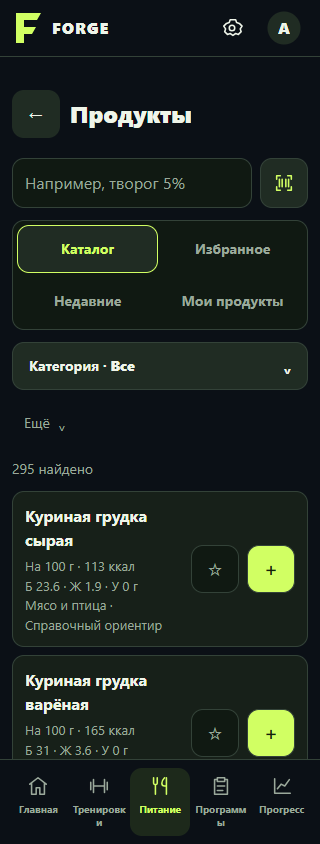
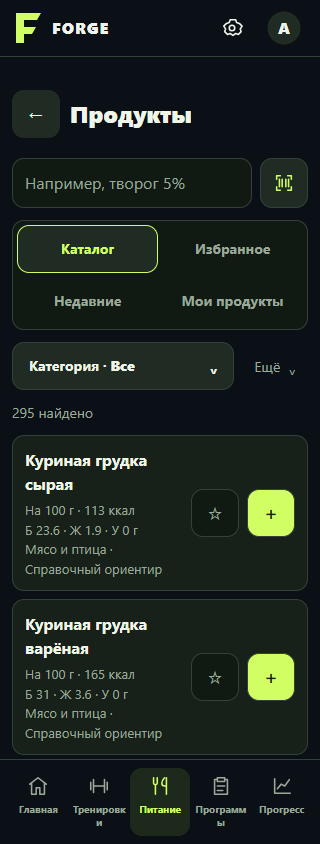
Audit all FORGE screens and verify restoration, large text and rotation

diff --git a/app/src/androidTest/java/ru/trainingcalculator/app/NavigationBackTest.kt b/app/src/androidTest/java/ru/trainingcalculator/app/NavigationBackTest.kt
@@ -131,6 +131,49 @@ class NavigationBackTest {
                 document.getElementById('n8-program').classList.contains('show') &&
                 document.getElementById('n8ProgName').value === 'Черновик после клавиатуры'
             """.trimIndent())
+            js(scenario, "ForgeNavigation.markSaved('n8-program');n8CloseOverlay();true")
+        }
+    }
+
+    @Test fun systemFontScaleIsAppliedToTheProductScreen() {
+        val instrumentation = InstrumentationRegistry.getInstrumentation()
+        org.junit.Assume.assumeTrue(InstrumentationRegistry.getArguments().getString("forgeFontScale") == "verify")
+        assertTrue(instrumentation.targetContext.resources.configuration.fontScale >= 1.45f)
+        ActivityScenario.launch(MainActivity::class.java).use { scenario ->
+            openPage(scenario, "foodcatalog")
+            scenario.onActivity { activity ->
+                val web = requireNotNull(findWeb(activity.window.decorView))
+                assertEquals((activity.resources.configuration.fontScale * 100).toInt(), web.settings.textZoom)
+            }
+            waitFor(scenario, """
+                document.documentElement.scrollWidth <= innerWidth + 1 &&
+                [...document.querySelectorAll('#foodcatalog [data-food-tab]')].every(button =>
+                  button.scrollWidth <= button.clientWidth + 1 && button.getBoundingClientRect().right <= innerWidth + 1)
+            """.trimIndent())
+        }
+    }
+
+    @Test fun rotationPreservesTheProductQueryAndCategory() {
+        ActivityScenario.launch(MainActivity::class.java).use { scenario ->
+            openPage(scenario, "foodcatalog")
+            js(scenario, """
+                forgeSetFoodTab('catalog');
+                forgeSetFoodCategory(forgeFoodCategoryList.indexOf('Рыба и морепродукты'));
+                document.getElementById('foodSearch').value = 'Рыба';
+                forgeFoodChange();
+            """.trimIndent())
+            scenario.onActivity { it.requestedOrientation = android.content.pm.ActivityInfo.SCREEN_ORIENTATION_LANDSCAPE }
+            waitFor(scenario, """
+                innerWidth > innerHeight && ForgeNavigation.inspect().current === 'foodcatalog' &&
+                document.getElementById('foodSearch').value === 'Рыба' &&
+                document.getElementById('forgeFoodCategoryValue').textContent === 'Рыба и морепродукты'
+            """.trimIndent())
+            scenario.onActivity { it.requestedOrientation = android.content.pm.ActivityInfo.SCREEN_ORIENTATION_PORTRAIT }
+            waitFor(scenario, """
+                innerHeight > innerWidth && ForgeNavigation.inspect().current === 'foodcatalog' &&
+                document.getElementById('foodSearch').value === 'Рыба'
+            """.trimIndent())
+            js(scenario, "document.getElementById('foodSearch').value='';forgeFoodChange();forgeSetFoodCategory(0);true")
         }
     }
     @Test fun systemBackClosesCardThenReturnsThroughPages() {

diff --git a/app/src/main/assets/navigation.js b/app/src/main/assets/navigation.js
@@ -178,7 +178,7 @@
   window.ForgeNavigation={go,back,canBack,persist,allowCloseEditor,notify,surfaceOpened(id,name,args){const el=byId(id);if(el&&reopen.includes(name)){surfaceRoutes.set(id,{route:{name,args:clone(args)},node:surfaceContent(el)});announce();persist();}},beforeOverlay:persist,markSaved:id=>dirty.delete(id),markDirty:id=>dirty.add(id),inspect:()=>({current:active(),depth:frames.length,overlay:window.ForgeCycles?.isOpen()?'forge-cycle':top()?.id||null})};
   for(const name of reopen){
     const original=window[name];if(typeof original!=='function')continue;
-    window[name]=function(...args){const result=original.apply(this,args),el=top();if(el){if(!restoring)dirty.delete(el.id);surfaceRoutes.set(el.id,{route:{name,args:clone(args)},node:surfaceContent(el)});persist();}return result;};
+    window[name]=function(...args){const result=original.apply(this,args),el=top();if(el){if(!restoring){dirty.delete(el.id);if(el.id==='modalback'){el.scrollTop=0;el.querySelector('.modal')?.scrollTo(0,0);}}surfaceRoutes.set(el.id,{route:{name,args:clone(args)},node:surfaceContent(el)});persist();}return result;};
   }
   let saved;try{saved=JSON.parse(localStorage.getItem(KEY)||'null');}catch{}
   if(saved?.version===1&&titles[saved.current?.page]&&Array.isArray(saved.frames)){

diff --git a/docs/UX_AUDIT_V2.md b/docs/UX_AUDIT_V2.md
@@ -1,0 +1,81 @@
+# UX-аудит FORGE v2
+
+Дата проверки — 21 ноября 2026. Ветка `forge-ux-ergonomics-v2`. Основа — `forge-release-readiness`, коммит `497ca76d4fe2f7512f16ffdd864d77e183669bed`, FORGE 11.4.3, versionCode 28. Проверочная версия — 11.4.4, versionCode 29, пакет `ru.trainingcalculator.app`. Origin `https://appassets.androidplatform.net/assets/index.html`.
+
+Ветки и теги получены через `git fetch --prune --tags`. Более свежей базы приложения при начале работы не найдено. `main` оставался на `ce7d407` (10.1.0). PR №14 и №15 открыты как черновики. [PR №16](https://github.com/ermakovnikita58-png/training-calculator-android/pull/16) основан на PR №15. Авторские рисунки и схема данных дневника используются из этой базы.
+
+## Воспроизводимые проблемы и исправления
+
+| Статус | Воспроизведение | Причина | Изменение | Проверка |
+|---|---|---|---|---|
+| FIXED | Продукты, 320 px, названия источников | Четыре равные колонки по 74 px, внутренние отступы и длинные слова | Две широкие колонки, при крупном тексте одна. Размер шрифта источников 14 px при стандартном масштабе | `ux-v2-products-browser.cjs`, текстовые DOM-диапазоны и PNG |
+| FIXED | Продукты, выбрать длинную категорию | Прокручиваемые категории конкурировали с отдельной кнопкой | Единый фильтр «Категория · …», полная панель всех категорий с отметкой выбранной | Полный перебор категорий, фильтр рыбы, очистка, возврат |
+| FIXED | Продукты, первый вход | Несколько рядов равнозначных служебных кнопок перед результатами | Поиск со сканером, источники и категория. Ручная запись, создание продукта, рационы и онлайн доступны через «Ещё» | Снимки до/после, измерение первого результата |
+| FIXED | Избранное → порция сразу после нажатия звезды | Toast с большим z-index перехватывал нажатие на кнопку добавления | Toast пропускает указатель. При открытии нового окна предыдущее уведомление закрывается | Проверка `elementFromPoint` на действительной кнопке |
+| FIXED | Библиотека → прокрутка 400 px → перезапуск | Navigation восстанавливал страницу до окончательных стилей и Performance-рендерера. Browser scroll anchoring затем сдвигал страницу до 404 px | Инициализация navigation после установки всех стилей и экранов | Существующий тест восстановления с допуском менее 4 px сохранён |
+| FIXED | Фильтр, избранное или запрос → порция → Back → перезапуск | В общем кэше были поля формы, источник и категория сохранялись только в памяти | UI-снимок каталога добавлен в существующий кэш навигации, отдельно от дневника | Проверка query, источника, категории и результатов после reload |
+| FIXED | Новая порция после прокрутки длинной панели категорий в альбомной ориентации | Общий контейнер модального окна наследовал scrollTop прежнего содержимого | Сброс прокрутки при открытии нового содержимого стандартного диалога | Геометрия и достижимость последней кнопки |
+| FIXED | Шапка на 320–412 px | Высота 76 px, подпись PERFORMANCE и сплошные крупные фоны кнопок | Шапка 57 px, один логотип FORGE, компактная графика внутри областей 48×48 px | Измерение header и геометрия кнопок |
+| FIXED | Редактор дня, текст 200% | Две длинные команды в невмещающемся flex-ряду | Переносимые действия дня с минимальной шириной по тексту | Геометрия 320/390 px с текстом 200% |
+| FIXED | Nutrition Coach, текст 200% | Колонки шагов фиксированы по 96 px, слова длиннее ячеек | Сетка по размеру текста, перенос строк, области summary 48 px | 120/150/200%, все пять этапов доступны |
+| FIXED | Редактор рецепта, текст 150–200% | Sticky-кнопка сохранения рисовалась поверх ингредиентов и следующего действия | Кнопка в потоке сложного редактора, доступна после прокрутки | Проверки пересечений и последнего действия |
+| FIXED | План цикла, копирование недели, текст 150% | Flex-строка с select и длинной кнопкой не учитывала минимальные размеры | Grid перестраивается в один столбец по размеру текста | DOM-геометрия цикла |
+| FIXED | Клавиатура Android в активной тренировке | При resize WebView innerHeight и visualViewport уменьшались вместе. Эвристика JS не получала состояние IME, при этом нижняя кнопка заменяла скрытую внутреннюю | Native insets сообщают состояние клавиатуры. С открытой IME доступна кнопка записи в содержимом | Android-тест клавиатуры и браузерная проверка сохранённого дробного веса |
+| FIXED | Удержание в активной тренировке | Нижняя кнопка показывала reps даже для упражнения в секундах | Подпись «Записать подход» с весом и правильной единицей, доступное имя действия | Существующие проверки удержаний и E2E цикла |
+| FIXED | Статистика силы только со статическими удержаниями | Форматирование отсутствующего последнего результата превращало undefined в 0 | Отсутствующее значение отображается как «—» | Тест сохранения удержаний, проверка пустых результатов |
+| FIXED | Вырез и жестовая навигация в Android | Insets учитывали системные панели, отдельный displayCutout пропускался | Объединены systemBars и displayCutout, IME задаёт нижний отступ | Проверка Kotlin и instrumentation. Отдельная проверка Xiaomi обязательна |
+
+## Аудит экранов
+
+Число действий указано для конкретного сценария в синтетическом дневнике. Ввод целой строки или числа считается одним действием. Чтение экрана отдельно не считается.
+
+| Экран | Основная задача и маршрут | Изменение или результат | Статус проверки |
+|---|---|---|---|
+| 1. Главная | Увидеть план и продолжить тренировку одним нажатием | Существующие данные, заметное главное действие, переносимые карточки и метрики | VERIFIED · браузер |
+| 2. Тренировки | Начать запланированное занятие | Прежний путь и программы сохранены | VERIFIED · прежние E2E |
+| 3. Активная тренировка | Вес → повторы → запись, три действия | Дробный ввод, числовые клавиатуры, явная кнопка записи, предыдущий результат, RPE/RIR объяснены | VERIFIED · браузер. Android по отчёту CI |
+| 4. Завершение | Кнопка завершения → подтверждение | Диалог подтверждения, результат в истории | VERIFIED · E2E цикла |
+| 5. Программы | Открыть программу из раздела | Карточки и недельные команды переносятся при крупном тексте | VERIFIED · браузер |
+| 6. Создание программы | Создать → название → день → упражнение | Существующий полноэкранный редактор, подпись поля связана с input, черновик и предупреждение при выходе | VERIFIED · браузер. Android по отчёту CI |
+| 7. Циклы | Программы → цикл → выбор → замеры → план | Существующий мастер, адаптивные настройки недель, даты и ручные веса сохранены | VERIFIED · модель и E2E |
+| 8. Библиотека | Найти или выбрать группу | После загрузки восстанавливается положение, фильтры и запрос | VERIFIED · браузер |
+| 9. Группы мышц | Открыть группу одним нажатием | 14 локальных анатомических изображений, прежняя композиция | VERIFIED · каталог и геометрия |
+| 10. Карточка упражнения | Открыть технику, заметку, своё фото | Длинные заголовки переносятся, Back сохраняет список | VERIFIED · браузер |
+| 11. Мои упражнения | Создать и выбрать своё движение | Записи и фотографии сохранены, выбор остаётся в библиотеке | VERIFIED · существующие регрессии |
+| 12. Питание | Увидеть съедено, цель и остаток | Существующие суммы и история, пять основных вкладок в прежнем порядке | VERIFIED · браузер |
+| 13. Продукты | Поиск, порция, добавление | Исправлены ширины источников, фильтр, первый результат и восстановление | VERIFIED · восемь ширин |
+| 14. Порция продукта | Масса → добавить | Существующее компактное окно, граммы и миллилитры, кнопка достижима | VERIFIED · браузер |
+| 15. Рационы | Выбрать сохранённый или повторить вчерашний | Прежний экран и данные, открывается из питания и «Ещё» каталога | PARTIAL · геометрия и хранение. Повтор на телефоне |
+| 16. Рецепты | Создать, править и добавить порцию | Устранён sticky-нахлёст сохранения при крупном тексте | VERIFIED · геометрия, регрессия данных |
+| 17. Nutrition Coach | Поэтапно настроить цель | Существующие объяснения BMR, поддержания и дефицита сохранены. Исправлены шаги | VERIFIED · 61 unit-тест и E2E. Экранные цели применяются по подтверждению |
+| 18. История | Открыть завершённые занятия | Существующие записи, циклический план и факт, экспорт | VERIFIED · браузер |
+| 19. Статистика | Выбрать показатель и период | Переносимые вкладки, «—» при отсутствии данных, доступная таблица графика | VERIFIED · браузер |
+| 20. Профиль | Настроить цели, перейти к копиям | Доступ через кнопку 48×48 px, крупный текст не обрезает карточки | VERIFIED · геометрия и настройки |
+| 21. Google-вход | Профиль → Google → выбор аккаунта | Действующий Credential Manager и nonce используются из базы | PARTIAL · регрессии с тестовыми ответами. Повтор реального входа в новой сборке |
+| 22. Облачная копия | Выбрать отправку или восстановление | Существующий экран и подтверждения, данные локально не заменяются входом | VERIFIED · регрессии с тестовым Supabase. Физически NOT_TESTED |
+| 23. Настройки | Открыть настройки и разрешения | Согласия и диагностика доступны в профиле, IME учитывается нативно | VERIFIED · браузер. Разрешения на Xiaomi NOT_TESTED |
+| 24. Диагностика | Посмотреть или скопировать отчёт | Существующий экран с техническими данными | VERIFIED · регрессии настроек. Передача реального отчёта не выполнялась |
+| 25. Импорт и экспорт | Выбрать JSON или выгрузить копию | Схема, лимиты, проверки и подтверждение замены сохранены | VERIFIED · регрессии данных. Системный выбор файла на Xiaomi NOT_TESTED |
+
+## Проверки и ограничения
+
+- [ux-v2-geometry.cjs](../scripts/ux-v2-geometry.cjs) проверяет 24 состояния экранов и ошибок JS на 15 конфигурациях. Ширины 320/360/375/390/412/430/480/768, ориентация 844×390, текст 120/150/200% на 320 и 390. Всего 375 записей отчёта. Проверяются контроли и текстовые диапазоны, выход за viewport, фактические размеры, пересечения, прокрутка и доступность последнего действия через hit-testing. Прохождение этого набора относится к перечисленным состояниям.
+- [ux-v2-products-browser.cjs](../scripts/ux-v2-products-browser.cjs) проверяет источник, все основные подписи, рыбу/все, избранное, порцию, добавление, reload, ручной выход из окна, дробный вес и запись при IME. Геометрия поля поиска учитывает специально выделенную внутренним padding область кнопки очистки.
+- [ux-v2-visual.cjs](../scripts/ux-v2-visual.cjs) сравнивает 11 фактических PNG с отдельными эталонами Windows и Linux. Допуск по отличию пикселей — 1,2%, порог канала 24. Создание новых эталонов выполняется отдельным явным запуском `FORGE_UX_REFERENCE_UPDATE=1`; обычный CI сравнивает имеющиеся файлы.
+- При смене экрана прежний scroll сохраняется. Новая секция начинается с начала. Стандартный диалог с новым содержимым открывается сверху, карточка возвращает пользователя в прежний список. Кэш интерфейса не заменяет `forge_v2`.
+- [Android-тесты](../app/src/androidTest/java/ru/trainingcalculator/app/NavigationBackTest.kt) включают реальную IME, Back, четыре уровня textZoom, системный font_scale 1.5, поворот и восстановление фильтра. [CI](https://github.com/ermakovnikita58-png/training-calculator-android/pull/16/checks) содержит фактический результат по SHA. Снимки Android сохраняются в артефакте каждого эмулятора. Браузерное увеличение html font-size отдельно от Android.
+- [Существующие сценарии](../package.json) проверяют тренировки, циклы, продукты, Nutrition Coach, фото, импорт, конфликт и отказ сохранения. Дневник, программы, цели, фото и ID совместимы с базой. Проверка обновления 11.4.3 → 11.4.4 использует `adb install -r` под общей тестовой подписью.
+- Суперсеты как самостоятельный механизм в актуальном интерфейсе не обнаружены. В этой работе они не добавлялись. Камера в браузере проверяется с тестовыми ответами, настоящее распознавание и TalkBack требуют телефона.
+
+## Проверка Xiaomi 14
+
+1. Экспортировать тестовый дневник, сверить версию и подпись, установить APK поверх совместимой 11.4.3. После запуска проверить фото, программы, активное занятие и питание.
+2. В питании открыть продукты. Последовательно проверить каталог, избранное, недавние, свои, очистку строки, сканер, меню «Ещё». Выбрать «Рыба и морепродукты», затем «Все». Добавить куриную грудку 150 г и напиток в мл.
+3. Повторить при системном увеличении текста 120/150/200%, в альбомной ориентации и с экранной клавиатурой. Проверить вырез, жестовую область и доступность кнопки добавления после прокрутки.
+4. Запустить программу, ввести дробный вес, записать подход и открыть отдых. Свернуть, заблокировать и вернуть приложение. Проверить кнопку записи при клавиатуре и после её закрытия.
+5. Открыть редактор, изменить название, нажать Back. Сначала закрывается клавиатура. Следующий Back предлагает решение по черновику. Повторить жестом слева и справа.
+6. Открыть карточку упражнения, вернуться к поиску, изменить рецепт и создать цикл. Проверить, что все кнопки доступны при крупном тексте.
+7. Проверить настоящий сканер, отказ в камере, Google-вход и выход, работу в авиарежиме, системный выбор JSON. Не использовать личную облачную копию для теста замены.
+8. Включить TalkBack и reduced motion. Проверить озвучивание пяти вкладок, категории, иконок сканера и добавления, полей веса и порции, ошибок. Записать модель, Android/HyperOS, WebView, масштаб и шаги для каждой ошибки.
+
+Физический Xiaomi 14 отсутствует среди подключённых ADB-устройств. Статус этой приёмки — NOT_TESTED. Поведение HyperOS, доставка уведомлений, камера и реальные аккаунты требуют отдельного прогона.

diff --git a/docs/UX_V2_BEFORE_AFTER.md b/docs/UX_V2_BEFORE_AFTER.md
@@ -1,0 +1,48 @@
+# FORGE v2 · сравнение интерфейса
+
+Снимки получены из приложения в Chromium с одним синтетическим дневником и фиксированной датой 16 ноября 2026. Исходная версия — 11.4.3, `497ca76`. Изменения — ветка `forge-ux-ergonomics-v2`, проверочная версия 11.4.4. Изображения представлены фактическим рендером HTML, CSS и JS приложения.
+
+## Продукты
+
+| Ширина | До | После |
+|---|---|---|
+| 320 px | ![Продукты до, 320](ux-v2/before/products-320.png) | ![Продукты после, 320](ux-v2/after/products-320.png) |
+| 360 px | ![Продукты до, 360](ux-v2/before/products-360.png) | ![Продукты после, 360](ux-v2/after/products-360.png) |
+| 390 px | ![Продукты до, 390](ux-v2/before/products-390.png) | ![Продукты после, 390](ux-v2/after/products-390.png) |
+| 412 px | ![Продукты до, 412](ux-v2/before/products-412.png) | ![Продукты после, 412](ux-v2/after/products-412.png) |
+
+| Измерение | 320 | 360 | 390 | 412 |
+|---|---:|---:|---:|---:|
+| Высота шапки до → после, px | 76 → 57 | 76 → 57 | 76 → 57 | 76 → 57 |
+| Минимальная ширина источника до → после, px | 74 → 139 | 82 → 155 | 89 → 170 | 95 → 181 |
+| Верх первой карточки до → после, px | 546 → 435 | 498 → 435 | 510 → 435 | 510 → 435 |
+
+Четыре узких источника заменены двумя читаемыми колонками. На крупном тексте сетка перестраивается. Единый фильтр показывает выбранную категорию полностью. Сканер расположен рядом с поиском. Второстепенные команды доступны через «Ещё». Существующее окно порции открывается сразу из карточки. Исходные измерения сохранены рядом с PNG в `measurements.json`.
+
+## Остальные экраны на 390 px
+
+| Экран | До | После |
+|---|---|---|
+| Главная | ![Главная до](ux-v2/before/home-390.png) | ![Главная после](ux-v2/after/home-390.png) |
+| Категории | ![Категории до](ux-v2/before/categories-390.png) | ![Категории после](ux-v2/after/categories-390.png) |
+| Активная тренировка | ![Тренировка до](ux-v2/before/workout-390.png) | ![Тренировка после](ux-v2/after/workout-390.png) |
+| Редактор программы | ![Программа до](ux-v2/before/program-390.png) | ![Программа после](ux-v2/after/program-390.png) |
+| Цикл | ![Цикл до](ux-v2/before/cycle-390.png) | ![Цикл после](ux-v2/after/cycle-390.png) |
+| Карточка упражнения | ![Упражнение до](ux-v2/before/exercise-390.png) | ![Упражнение после](ux-v2/after/exercise-390.png) |
+| Статистика | ![Статистика до](ux-v2/before/statistics-390.png) | ![Статистика после](ux-v2/after/statistics-390.png) |
+
+Главное действие тренировки теперь подписано словами «Записать подход», вес и единица указаны ниже. Верхняя панель занимает меньше места, её области нажатия составляют минимум 48×48 px. Обновлены переносы длинных текстов и команды в сложных редакторах. RPE/RIR раскрываются по запросу пользователя.
+
+## Изменение числа действий
+
+| Сценарий | До | После |
+|---|---:|---:|
+| Питание → продукты → запрос → выбор продукта → масса → добавить | 6 | 6 |
+| Переключение основного источника | 1 | 1 |
+| Открыть полный список категорий → выбрать | 2 | 2 |
+| Ввести вес → ввести повторения → записать | 3 | 3 |
+| Открыть создание сохраняемого продукта из каталога | 1 | 2 |
+
+Дополнительное раскрытие для создания сохраняемого продукта освобождает основную область от нескольких равнозначных кнопок. Доступ к продуктам, рационам и ручной записи сохранён. Время выполнения человеком не измерялось.
+
+Проверки включают видимость полного текста, отсутствие горизонтального выхода и пересечений, доступность контролов после прокрутки и сохранение данных. В [аудите](UX_AUDIT_V2.md) приведены воспроизведение, причины, статусы и перечень физических проверок.
